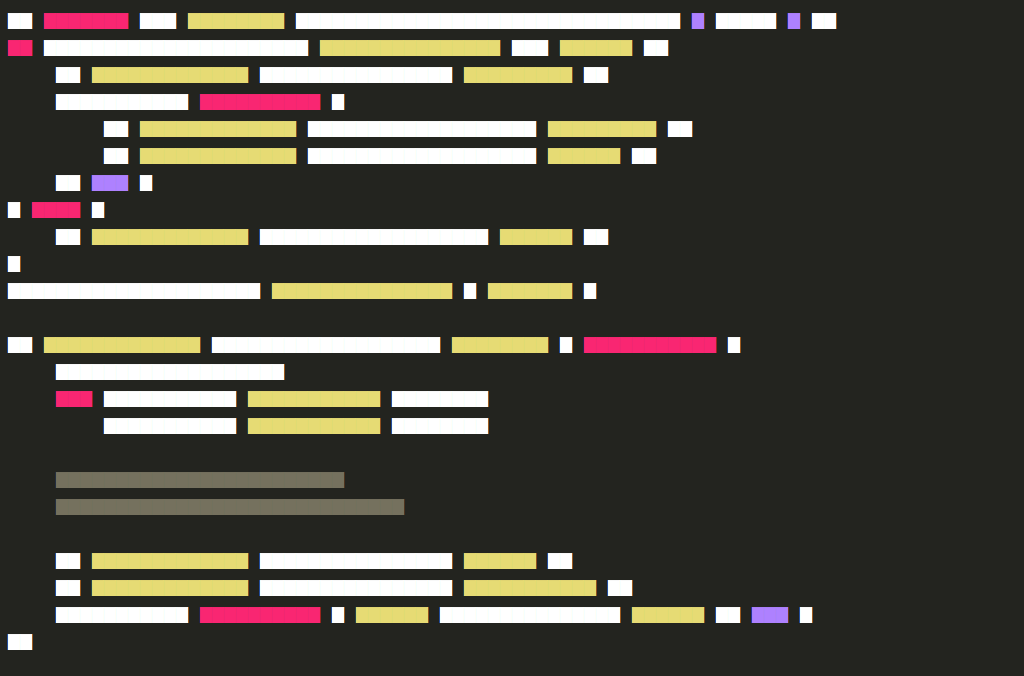
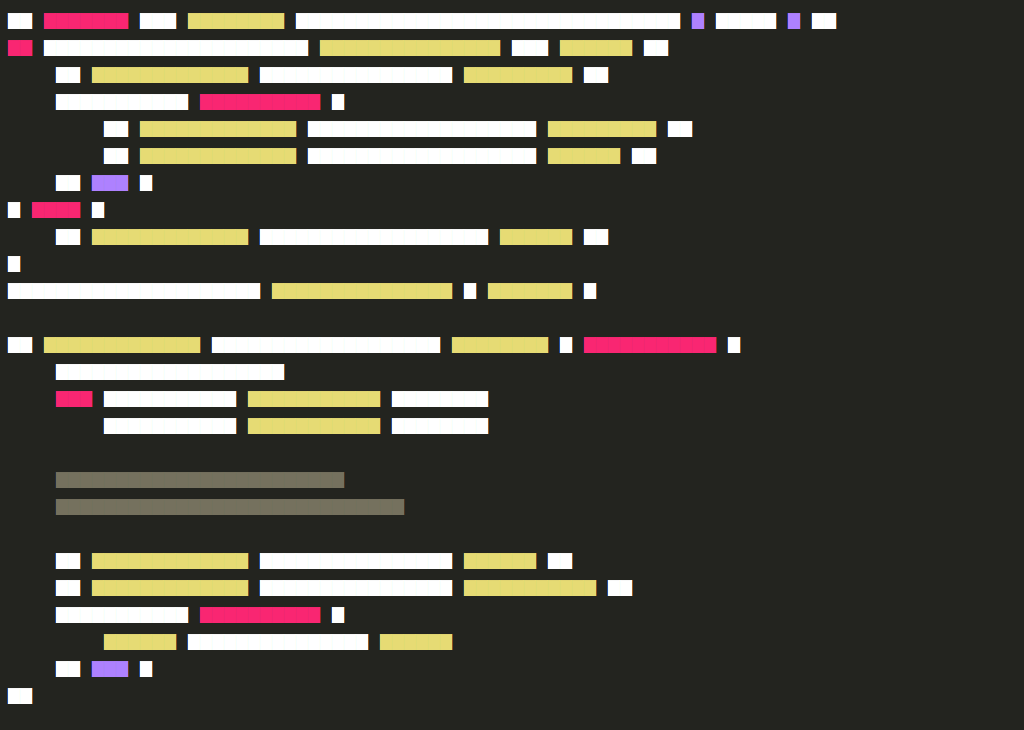
Now works with spaces as well as tabs. Reindents everything to a consistent format so that all image look similar

Changed region(s): [[0.0, 0.0311, 0.8125, 0.932], [0.7188, 0.0311, 0.75, 0.0621], [0.0, 0.932, 0.0312, 0.963]]

diff --git a/syntax.js b/syntax.js
@@ -2,16 +2,23 @@ let fs = require('fs');
 let hljs = require('highlight.js');
 let cheerio = require('cheerio');
 let webshot = require('webshot');
+let beautify = require('js-beautify').js_beautify;
 
-let styles = "pre{tab-size:4;}span::after{content: ' ';}body{background:#23241f;color: white;-webkit-text-size-adjust:none;font-size:1.5em;}.aspectj .hljs-function,.css .hljs-function .hljs-preprocessor,.css .hljs-rule,.css .hljs-value,.hljs,.hljs-pragma,.hljs-tag{color:#f8f8f2}.hljs-emphasis,.hljs-strong,.hljs-strongemphasis{color:#a8a8a2}.alias .hljs-keyword,.hljs-blockquote,.hljs-bullet,.hljs-hexcolor,.hljs-horizontal_rule,.hljs-literal,.hljs-number,.hljs-regexp{color:#ae81ff}.css .hljs-class,.hljs-class .hljs-title:last-child,.hljs-code,.hljs-tag .hljs-value,.hljs-title{color:#a6e22e}.hljs-link_url{font-size:80%}.hljs-strong,.hljs-strongemphasis{font-weight:700}.hljs-class .hljs-title:last-child,.hljs-emphasis,.hljs-strongemphasis,.hljs-typename{font-style:italic}.alias .hljs-keyword:first-child,.css .hljs-important,.css .hljs-tag,.css .unit,.hljs-attribute,.hljs-change,.hljs-flow,.hljs-function,.hljs-header,.hljs-keyword,.hljs-symbol,.hljs-symbol .hljs-string,.hljs-tag .hljs-title,.hljs-value,.hljs-winutils,.nginx .hljs-title,.ruby .hljs-class .hljs-keyword:first-child,.ruby .hljs-function .hljs-keyword,.tex .hljs-special{color:#f92672}.css .hljs-attribute,.hljs-aspect .hljs-keyword:first-child,.hljs-class .hljs-keyword:first-child,.hljs-constant,.hljs-function .hljs-keyword,.hljs-name,.hljs-typename{color:#66d9ef}.hljs-aspect .hljs-title,.hljs-class .hljs-title,.hljs-params,.hljs-variable{color:#f8f8f2}.apache .hljs-cbracket,.apache .hljs-tag,.css .hljs-id,.django .hljs-filter .hljs-argument,.django .hljs-template_tag,.django .hljs-variable,.hljs-addition,.hljs-attr_selector,.hljs-built_in,.hljs-envvar,.hljs-link_label,.hljs-link_url,.hljs-prompt,.hljs-pseudo,.hljs-stream,.hljs-string,.hljs-subst,.hljs-type,.ruby .hljs-class .hljs-parent,.smalltalk .hljs-array,.smalltalk .hljs-class,.smalltalk .hljs-localvars,.tex .hljs-command{color:#e6db74}.apache .hljs-sqbracket,.hljs-annotation,.hljs-comment,.hljs-decorator,.hljs-deletion,.hljs-doctype,.hljs-javadoc,.hljs-pi,.hljs-shebang,.tex .hljs-formula{color:#75715e}.coffeescript .javascript,.javascript .xml,.php .xml,.tex .hljs-formula,.xml .css,.xml .hljs-cdata,.xml .javascript,.xml .php,.xml .vbscript{opacity:.5}";
+let style = "pre{tab-size:4;}span::after{content: ' ';}body{background:#23241f;color: white;-webkit-text-size-adjust:none;font-size:1.5em;}.aspectj .hljs-function,.css .hljs-function .hljs-preprocessor,.css .hljs-rule,.css .hljs-value,.hljs,.hljs-pragma,.hljs-tag{color:#f8f8f2}.hljs-emphasis,.hljs-strong,.hljs-strongemphasis{color:#a8a8a2}.alias .hljs-keyword,.hljs-blockquote,.hljs-bullet,.hljs-hexcolor,.hljs-horizontal_rule,.hljs-literal,.hljs-number,.hljs-regexp{color:#ae81ff}.css .hljs-class,.hljs-class .hljs-title:last-child,.hljs-code,.hljs-tag .hljs-value,.hljs-title{color:#a6e22e}.hljs-link_url{font-size:80%}.hljs-strong,.hljs-strongemphasis{font-weight:700}.hljs-class .hljs-title:last-child,.hljs-emphasis,.hljs-strongemphasis,.hljs-typename{font-style:italic}.alias .hljs-keyword:first-child,.css .hljs-important,.css .hljs-tag,.css .unit,.hljs-attribute,.hljs-change,.hljs-flow,.hljs-function,.hljs-header,.hljs-keyword,.hljs-symbol,.hljs-symbol .hljs-string,.hljs-tag .hljs-title,.hljs-value,.hljs-winutils,.nginx .hljs-title,.ruby .hljs-class .hljs-keyword:first-child,.ruby .hljs-function .hljs-keyword,.tex .hljs-special{color:#f92672}.css .hljs-attribute,.hljs-aspect .hljs-keyword:first-child,.hljs-class .hljs-keyword:first-child,.hljs-constant,.hljs-function .hljs-keyword,.hljs-name,.hljs-typename{color:#66d9ef}.hljs-aspect .hljs-title,.hljs-class .hljs-title,.hljs-params,.hljs-variable{color:#f8f8f2}.apache .hljs-cbracket,.apache .hljs-tag,.css .hljs-id,.django .hljs-filter .hljs-argument,.django .hljs-template_tag,.django .hljs-variable,.hljs-addition,.hljs-attr_selector,.hljs-built_in,.hljs-envvar,.hljs-link_label,.hljs-link_url,.hljs-prompt,.hljs-pseudo,.hljs-stream,.hljs-string,.hljs-subst,.hljs-type,.ruby .hljs-class .hljs-parent,.smalltalk .hljs-array,.smalltalk .hljs-class,.smalltalk .hljs-localvars,.tex .hljs-command{color:#e6db74}.apache .hljs-sqbracket,.hljs-annotation,.hljs-comment,.hljs-decorator,.hljs-deletion,.hljs-doctype,.hljs-javadoc,.hljs-pi,.hljs-shebang,.tex .hljs-formula{color:#75715e}.coffeescript .javascript,.javascript .xml,.php .xml,.tex .hljs-formula,.xml .css,.xml .hljs-cdata,.xml .javascript,.xml .php,.xml .vbscript{opacity:.5}";
 
 let code = fs.readFileSync(process.argv[2]).toString();
+code = beautify(code, {
+	"indent_with_tabs": true,
+	"jslint_happy": true,
+	"end_with_newline": true
+});
+
 
 let hcode = hljs.highlight('javascript', code).value;
 hcode = "<pre>" + hcode + "</pre>";
 
 let $ = cheerio.load(hcode, {decodeEntities: false});
-$('head').append($("<style>").html(styles));
+$('head').append($("<style>").html(style));
 $('pre').contents()
 		.filter(function(){return this.nodeType === 3})
 		.each(function() {

diff --git a/output.html b/output.html
@@ -20,6 +20,8 @@
 
 	<span>&#x2588;&#x2588;</span><span class="hljs-string">&#x2588;&#x2588;&#x2588;&#x2588;&#x2588;&#x2588;&#x2588;&#x2588;&#x2588;&#x2588;&#x2588;&#x2588;&#x2588;</span><span>&#x2588;&#x2588;&#x2588;&#x2588;&#x2588;&#x2588;&#x2588;&#x2588;&#x2588;&#x2588;&#x2588;&#x2588;&#x2588;&#x2588;&#x2588;&#x2588;</span><span class="hljs-string">&#x2588;&#x2588;&#x2588;&#x2588;&#x2588;&#x2588;</span><span>&#x2588;&#x2588;
 	&#x2588;&#x2588;</span><span class="hljs-string">&#x2588;&#x2588;&#x2588;&#x2588;&#x2588;&#x2588;&#x2588;&#x2588;&#x2588;&#x2588;&#x2588;&#x2588;&#x2588;</span><span>&#x2588;&#x2588;&#x2588;&#x2588;&#x2588;&#x2588;&#x2588;&#x2588;&#x2588;&#x2588;&#x2588;&#x2588;&#x2588;&#x2588;&#x2588;&#x2588;</span><span class="hljs-string">&#x2588;&#x2588;&#x2588;&#x2588;&#x2588;&#x2588;&#x2588;&#x2588;&#x2588;&#x2588;&#x2588;</span><span>&#x2588;&#x2588;
-	&#x2588;&#x2588;&#x2588;&#x2588;&#x2588;&#x2588;&#x2588;&#x2588;&#x2588;&#x2588;&#x2588;</span><span class="hljs-function">&#x2588;&#x2588;&#x2588;&#x2588;&#x2588;&#x2588;&#x2588;&#x2588;&#x2588;&#x2588;</span><span>&#x2588;</span><span class="hljs-built_in">&#x2588;&#x2588;&#x2588;&#x2588;&#x2588;&#x2588;</span><span>&#x2588;&#x2588;&#x2588;&#x2588;&#x2588;&#x2588;&#x2588;&#x2588;&#x2588;&#x2588;&#x2588;&#x2588;&#x2588;&#x2588;&#x2588;</span><span class="hljs-string">&#x2588;&#x2588;&#x2588;&#x2588;&#x2588;&#x2588;</span><span>&#x2588;&#x2588;</span><span class="hljs-number">&#x2588;&#x2588;&#x2588;</span><span>&#x2588;
+	&#x2588;&#x2588;&#x2588;&#x2588;&#x2588;&#x2588;&#x2588;&#x2588;&#x2588;&#x2588;&#x2588;</span><span class="hljs-function">&#x2588;&#x2588;&#x2588;&#x2588;&#x2588;&#x2588;&#x2588;&#x2588;&#x2588;&#x2588;</span><span>&#x2588;</span>
+		<span class="hljs-built_in">&#x2588;&#x2588;&#x2588;&#x2588;&#x2588;&#x2588;</span><span>&#x2588;&#x2588;&#x2588;&#x2588;&#x2588;&#x2588;&#x2588;&#x2588;&#x2588;&#x2588;&#x2588;&#x2588;&#x2588;&#x2588;&#x2588;</span><span class="hljs-string">&#x2588;&#x2588;&#x2588;&#x2588;&#x2588;&#x2588;</span>
+	<span>&#x2588;&#x2588;</span><span class="hljs-number">&#x2588;&#x2588;&#x2588;</span><span>&#x2588;
 &#x2588;&#x2588;</span>
 </pre></body></html>

diff --git a/test_file.js b/test_file.js
@@ -1,24 +1,24 @@
 _ = (sel) => (e = document.querySelectorAll(sel), e.length > 1 ? e :e[0])
 if (localStorage.getItem('previous-page') == 'home') {
-	_('.transition').classList.add('to-left');
-	setTimeout(function() {
-		_('.transition').classList.remove('to-left');
-		_('.transition').classList.remove('show');
-	}, 500)
+    _('.transition').classList.add('to-left');
+    setTimeout(function() {
+        _('.transition').classList.remove('to-left');
+        _('.transition').classList.remove('show');
+    }, 500)
 } else {
-	_('.transition').classList.remove('show');
+    _('.transition').classList.remove('show');
 }
 localStorage.setItem('previous-page', 'login')
 
 _("#login-form").addEventListener('submit', function(e) {
-	e.preventDefault();
-	var username = _('#username').value,
-		password = _('#password').value;
+    e.preventDefault();
+    var username = _('#username').value,
+        password = _('#password').value;
 
-	// Do some submit logic here!
-	// Okay by now the user is verified.
+    // Do some submit logic here!
+    // Okay by now the user is verified.
 
-	_('.transition').classList.add('show');
-	_('.transition').classList.add('from-left');
-	setTimeout(function() {window.location.href = 'home'}, 500)
+    _('.transition').classList.add('show');
+    _('.transition').classList.add('from-left');
+    setTimeout(function() {window.location.href = 'home'}, 500)
 })
